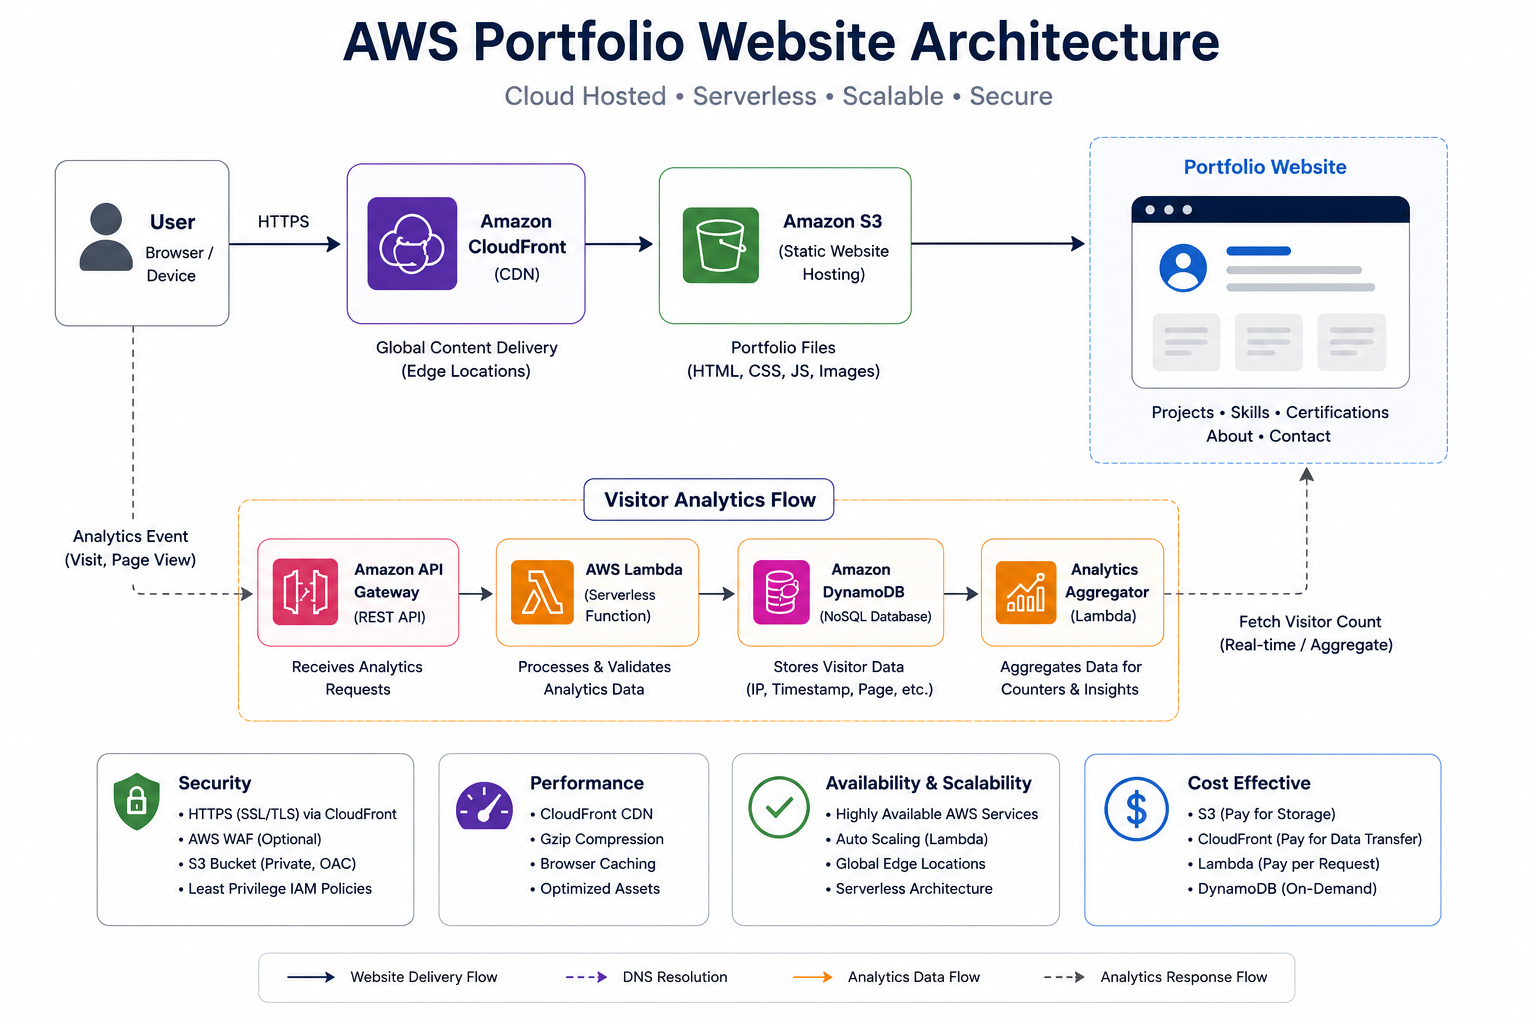
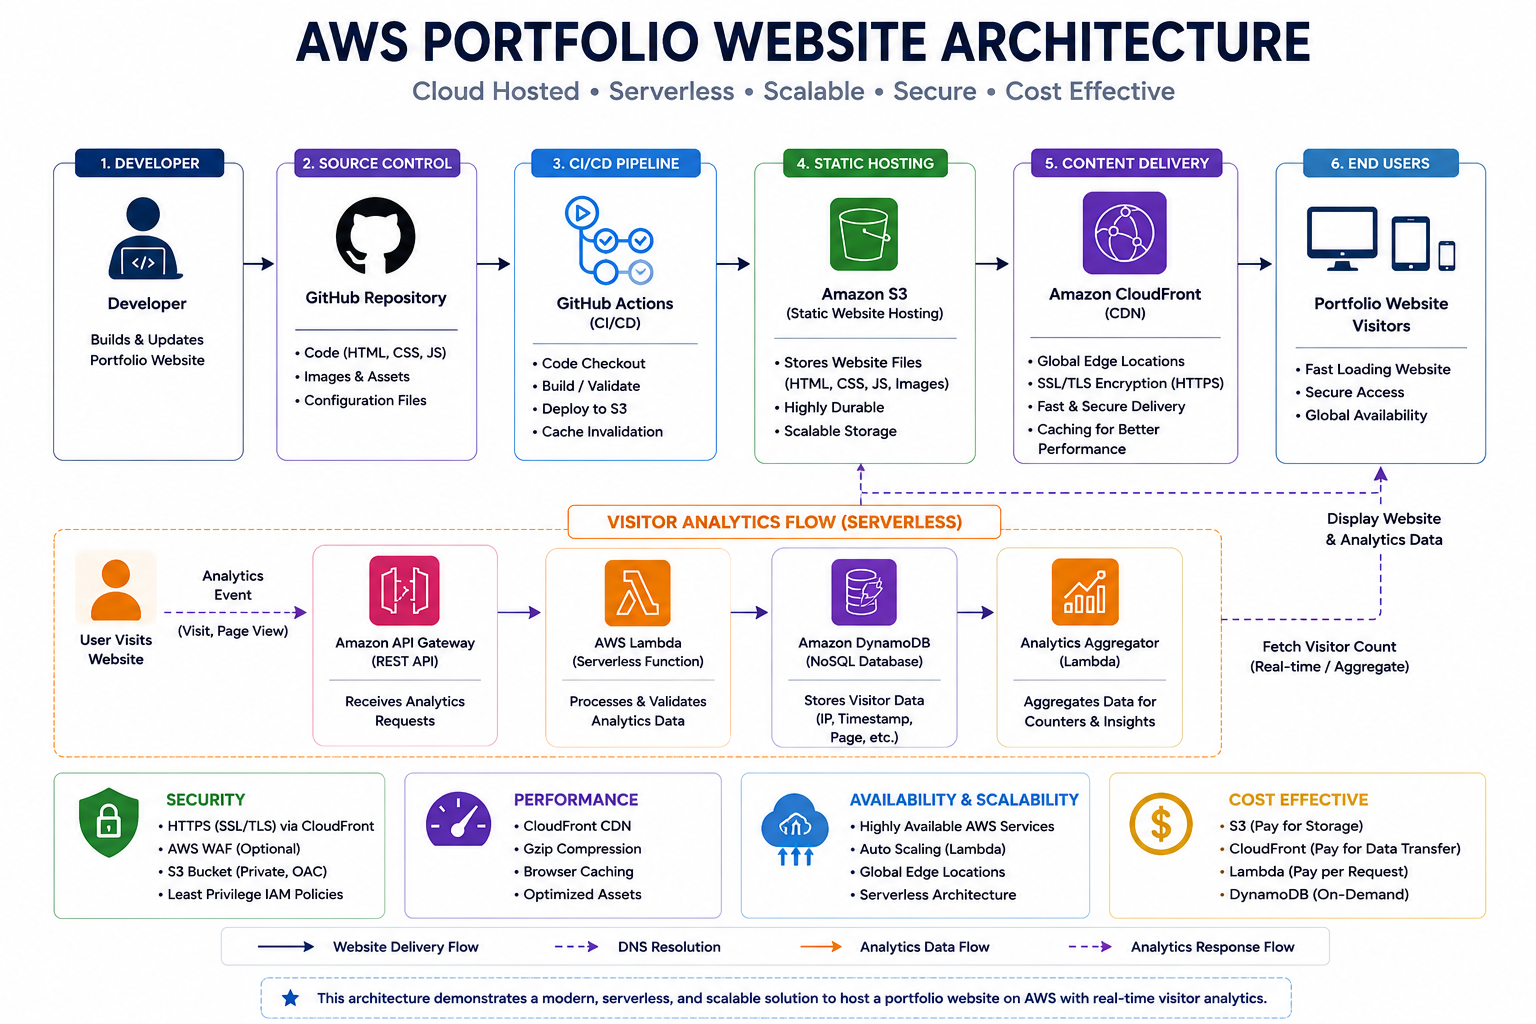
Enhance portfolio architecture and documentation

diff --git a/projects/portfolio-website.html b/projects/portfolio-website.html
@@ -48,7 +48,7 @@ Amazon DynamoDB.
 
 <div class="buttons">
 <a href="https://d3mwy50w6wapyd.cloudfront.net" target="_blank" class="btn">Portfolio Link</a>
-<a href="https://github.com/manoj-konireddy/aws-portfolio" target="_blank" class="btn">View GitHub</a>
+<a href="https://github.com/manoj-konireddy/portfolio" target="_blank" class="btn">View GitHub</a>
 <button onclick="history.back()" class="btn secondary">Back To Portfolio</button>
 </div>
 

diff --git a/README.md b/README.md
@@ -17,9 +17,13 @@ A modern, fully responsive portfolio website built and deployed on Amazon Web Se
 
 ## 🌐 Live Demo
 
-**Portfolio Website**
+### AWS CloudFront (Production)
 
 🔗 https://d3mwy50w6wapyd.cloudfront.net
+
+### GitHub Pages (Mirror)
+
+🔗 https://manoj-konireddy.github.io/portfolio/
 
 ---
 
@@ -137,6 +141,7 @@ Through this project, I gained hands-on experience in:
 
 - AWS Cloud Deployment
 - Serverless Architecture
+- GitHub Actions CI/CD
 - CloudFront CDN
 - Static Website Hosting
 - API Development
@@ -153,7 +158,6 @@ Through this project, I gained hands-on experience in:
 
 - Custom Domain Integration
 - SSL/TLS using AWS Certificate Manager (ACM)
-- CI/CD Pipeline with GitHub Actions
 - AWS CloudWatch Monitoring
 - Infrastructure as Code (Terraform / AWS CDK)
 
